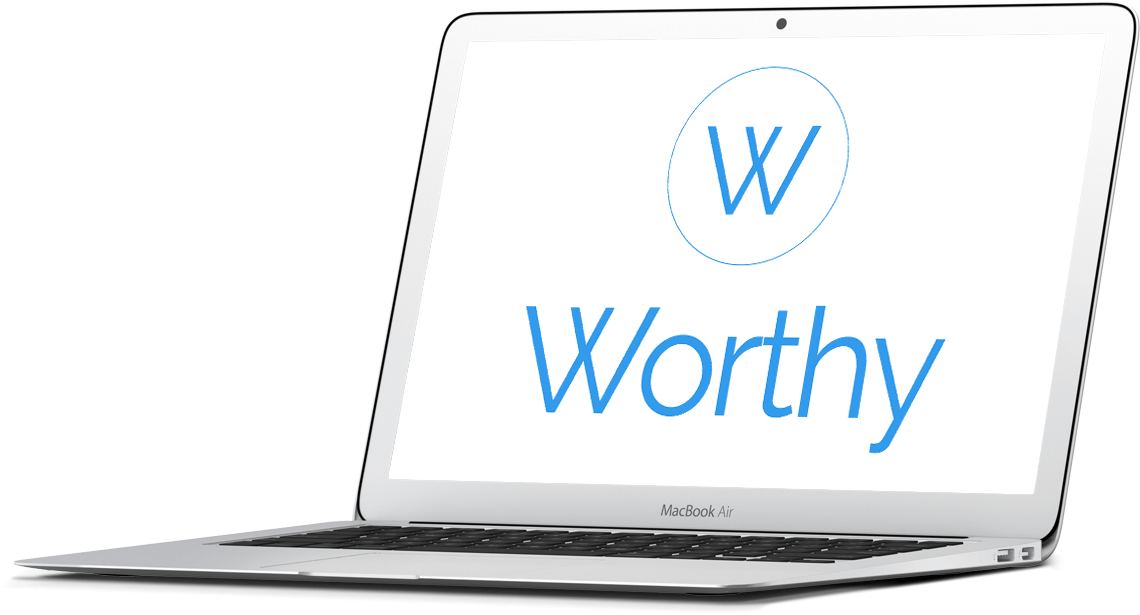
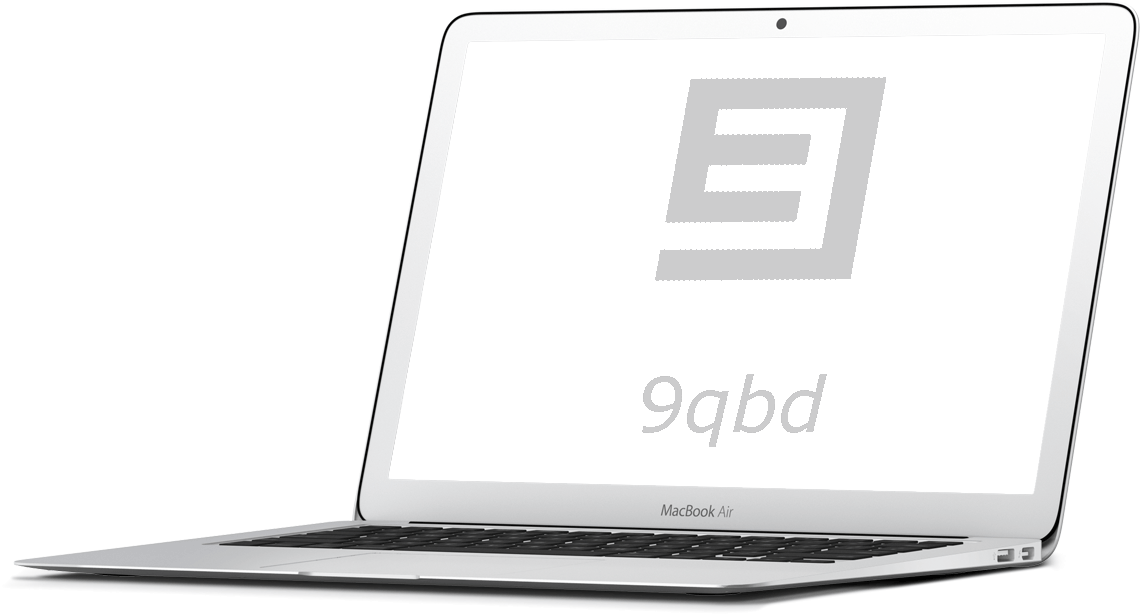
Added new laptop image, and added abdul maliks changes

Changed region(s): [[0.4605, 0.4943, 0.8289, 0.7415], [0.5526, 0.0927, 0.7982, 0.4634]]

diff --git a/index.html b/index.html
@@ -1,3 +1,4 @@
+
 <!DOCTYPE html>
 <!--[if IE 9]> <html lang="en" class="ie9"> <![endif]-->
 <!--[if !IE]><!-->
@@ -6,8 +7,8 @@
 	<head>
 		<meta charset="utf-8">
 		<title>9qbd</title>
-		<meta name="description" content="Worthy a Bootstrap-based, Responsive HTML5 Template">
-		<meta name="author" content="htmlcoder.me">
+		<meta name="description" content="9qbd">
+		<meta name="author" content="Umayah Abdennabi">
 
 		<!-- Mobile Meta -->
 		<meta name="viewport" content="width=device-width, initial-scale=1.0">
@@ -140,8 +141,8 @@
 			<div class="container">
 				<div class="row">
 					<div class="col-md-12">
-						<h1 id="about" class="title text-center">About <span>Worthy</span></h1>
-						<p class="lead text-center">Lorem ipsum dolor sit amet, consectetur adipisicing elit. Dicta officia, aspernatur.</p>
+						<h1 id="about" class="title text-center">About <span>9qbd</span></h1>
+						<p class="lead text-center">We take on any project</p>
 						<div class="space"></div>
 						<div class="row">
 							<div class="col-md-6">
@@ -149,24 +150,30 @@
 								<div class="space"></div>
 							</div>
 							<div class="col-md-6">
-								<p>Lorem ipsum dolor sit amet, consectetur adipisicing elit. Excepturi adipisci illo, voluptatum ipsam fuga error commodi architecto, laudantium culpa tenetur at id, beatae placeat deserunt iure quas voluptas fugit eveniet.</p>
-								<p>Lorem ipsum dolor sit amet, consectetur adipisicing elit. Quo ducimus explicabo quibusdam temporibus deserunt doloremque pariatur ea, animi a. Delectus similique atque eligendi, enim vel reiciendis deleniti neque aliquid, sit?</p>
+								<p>Not sure what will go here.</p>
+								<p>Not sure what will go here</p>
 								<ul class="list-unstyled">
-									<li><i class="fa fa-caret-right pr-10 text-colored"></i> Lorem ipsum dolor sit amet</li>
-									<li><i class="fa fa-caret-right pr-10 text-colored"></i> Reiciendis deleniti neque aliquid</li>
-									<li><i class="fa fa-caret-right pr-10 text-colored"></i> Ipsam fuga error commodi</li>
-									<li><i class="fa fa-caret-right pr-10 text-colored"></i> Lorem ipsum dolor sit amet</li>
-									<li><i class="fa fa-caret-right pr-10 text-colored"></i> Dignissimos molestiae necessitatibus</li>
+									<li><i class="fa fa-caret-right pr-10 text-colored"></i> Database</li>
+									<li><i class="fa fa-caret-right pr-10 text-colored"></i> Network Design and Deployment</li>
+									<li><i class="fa fa-caret-right pr-10 text-colored"></i> Websites</li>
+									<li><i class="fa fa-caret-right pr-10 text-colored"></i> Apps</li>
 								</ul>
 							</div>
 						</div>
 						<div class="space"></div>
-						<h2>Becessitatibus quae beatae possimus ullam</h2>
+						<h2>Our projects turn out the best, because we care</h2>
 						<div class="row">
 							<div class="col-md-6">
-								<p>Lorem ipsum dolor sit amet, consectetur adipisicing elit. Excepturi adipisci illo, voluptatum ipsam fuga error commodi architecto, laudantium culpa tenetur at id, beatae placeat deserunt iure quas voluptas fugit eveniet.</p>
-								<p>Lorem ipsum dolor sit amet, consectetur adipisicing elit. Quo ducimus explicabo quibusdam temporibus deserunt doloremque pariatur ea, animi a. Delectus similique atque eligendi, enim vel reiciendis deleniti neque aliquid, sit?</p>
-								<p>Vitae dolores quam magnam accusantium nam, voluptatibus expedita delectus, dolorum odio magni ut nemo nihil ex earum pariatur molestias velit eveniet, facere autem saepe aut. Ut minima itaque porro facere. Cumque vitae autem, dignissimos molestiae necessitatibus culpa aliquam deleniti soluta sunt voluptatibus tenetur, unde dolorem eligendi doloribus quibusdam facere totam. Possimus atque deserunt numquam aliquam magnam, facilis officiis illo alias ipsa voluptas laborum, praesentium eveniet nobis velit voluptatem odio eligendi, corporis et iste distinctio! Repellendus, id, ad.</p>
+								<p> Welcome to 9qbd, you are probably curious and would like to know the meaning of 9qbd. Well let me make your quest short;
+There is nothing special about 9qbd at the moment. Is just a name we chose for our company after brain storming.
+Initially, we thought of choosing a name that had a meaning tied to it, but then we came to the conclusion that a name is an identity, it doesn't need to have a special meaning at the beginning,
+But rather it's the person or company that gives the name a special meaning. </p>
+
+<p> Right now, I am sure you can think of names of athletes, religions leaders, top companies, and politicians. These names that you’re thinking of originally were unknown, but because of what they have accomplished is the reason why you know them </p>
+
+<p> Though the name of our company doesn’t have any meaning at the moment, we hope that it will soon because of what we achieve as team for our customers </p>
+
+								
 							</div>
 							<div class="col-md-6">
 								<div class="panel-group" id="accordion" role="tablist" aria-multiselectable="true">
@@ -174,13 +181,13 @@
 										<div class="panel-heading" role="tab" id="headingOne">
 											<h4 class="panel-title">
 												<a data-toggle="collapse" data-parent="#accordion" href="#collapseOne" aria-expanded="true" aria-controls="collapseOne">
-													Collapsible Group Item #1
+													Who we are
 												</a>
 											</h4>
 										</div>
 										<div id="collapseOne" class="panel-collapse collapse in" role="tabpanel" aria-labelledby="headingOne">
 											<div class="panel-body">
-												Anim pariatur cliche reprehenderit, enim eiusmod high life accusamus terry richardson ad squid. 3 wolf moon officia aute, non cupidatat skateboard dolor brunch. Food truck quinoa nesciunt laborum eiusmod. Brunch 3 wolf moon tempor, sunt aliqua put a bird on it squid single-origin coffee nulla assumenda shoreditch et. Nihil anim keffiyeh helvetica, craft beer labore wes anderson cred nesciunt sapiente ea proident. Ad vegan excepteur butcher.
+												
 											</div>
 										</div>
 									</div>
@@ -188,13 +195,13 @@
 										<div class="panel-heading" role="tab" id="headingTwo">
 											<h4 class="panel-title">
 												<a class="collapsed" data-toggle="collapse" data-parent="#accordion" href="#collapseTwo" aria-expanded="false" aria-controls="collapseTwo">
-													Collapsible Group Item #2
+													What we do
 												</a>
 											</h4>
 										</div>
 										<div id="collapseTwo" class="panel-collapse collapse" role="tabpanel" aria-labelledby="headingTwo">
 											<div class="panel-body">
-												Anim pariatur cliche reprehenderit, enim eiusmod high life accusamus terry richardson ad squid. 3 wolf moon officia aute, non cupidatat skateboard dolor brunch. Food truck quinoa nesciunt laborum eiusmod. Brunch 3 wolf moon tempor, sunt aliqua put a bird on it squid single-origin coffee nulla assumenda shoreditch et. Nihil anim keffiyeh helvetica, craft beer labore wes anderson cred nesciunt sapiente ea proident.
+												
 											</div>
 										</div>
 									</div>
@@ -202,7 +209,7 @@
 										<div class="panel-heading" role="tab" id="headingThree">
 											<h4 class="panel-title">
 												<a class="collapsed" data-toggle="collapse" data-parent="#accordion" href="#collapseThree" aria-expanded="false" aria-controls="collapseThree">
-													Collapsible Group Item #3
+													How we do it
 												</a>
 											</h4>
 										</div>
@@ -313,12 +320,9 @@
 		<!-- section start -->
 		<!-- ================ -->
 
-						<!-- portfolio items end -->
+		<!-- portfolio items end -->
 
-					</div>
-				</div>
-			</div>
-		</div>
+				
 		<!-- section end -->
 
 		<!-- section start -->
@@ -339,12 +343,11 @@
 					<div class="row">
 						<div class="col-sm-6">
 							<div class="footer-content">
-								<p class="large">Lorem ipsum dolor sit amet, consectetur adipisicing elit. Vel nam magnam natus tempora cumque, aliquam deleniti voluptatibus voluptas. Repellat vel, et itaque commodi iste ab, laudantium voluptas deserunt nobis.</p>
+						         <p class="large">If you need help with a project, please don't hesitate to contact us. </p>
 								<ul class="list-icons">
 									<li><i class="fa fa-map-marker pr-10"></i> Minneapolis, MN</li>
-									<li><i class="fa fa-phone pr-10"></i> +00 612 612 6126</li>
-									<li><i class="fa fa-fax pr-10"></i> +00 612 612 6126 </li>
-									<li><i class="fa fa-envelope-o pr-10"></i> 9qbd@9qbd.com</li>
+									<li><i class="fa fa-phone pr-10"></i> 612-314-5512</li>
+									<li><i class="fa fa-envelope-o pr-10"></i> nq@9dbd.com</li>
 								</ul>
 								<ul class="social-links">
 									<li class="facebook"><a target="_blank" href="https://www.facebook.com/pages/HtmlCoder/714570988650168"><i class="fa fa-facebook"></i></a></li>
@@ -353,8 +356,7 @@
 									<li class="skype"><a target="_blank" href="http://www.skype.com"><i class="fa fa-skype"></i></a></li>
 									<li class="linkedin"><a target="_blank" href="http://www.linkedin.com"><i class="fa fa-linkedin"></i></a></li>
 									<li class="youtube"><a target="_blank" href="http://www.youtube.com"><i class="fa fa-youtube"></i></a></li>
-									<li class="flickr"><a target="_blank" href="http://www.flickr.com"><i class="fa fa-flickr"></i></a></li>
-									<li class="pinterest"><a target="_blank" href="http://www.pinterest.com"><i class="fa fa-pinterest"></i></a></li>
+									
 								</ul>
 							</div>
 						</div>
@@ -427,3 +429,4 @@
 
 	</body>
 </html>
+

diff --git a/js/template.js b/js/template.js
@@ -10,7 +10,7 @@
 (function($){
 	$(document).ready(function(){
 	
-		$(".banner-image").backstretch('/static/images/banner.png');
+		$(".banner-image").backstretch('images/banner.png');
 		
 		// Fixed header
 		//-----------------------------------------------
